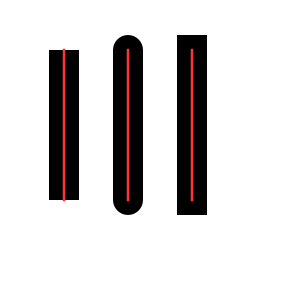
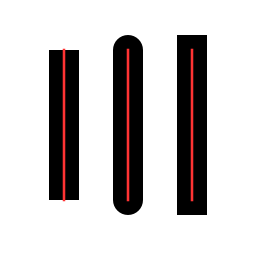
[screenshots]update screenshots

diff --git a/main.c b/main.c
@@ -79,7 +79,7 @@ static void cg_surface_write_to_png(struct cg_surface_t * surface, const char * 
 
 static void test_arc(const char * filename)
 {
-	struct cg_surface_t * surface = cg_surface_create(300, 300);
+	struct cg_surface_t * surface = cg_surface_create(256, 256);
 	struct cg_ctx_t * ctx = cg_create(surface);
 
 	double xc = 128.0;
@@ -111,7 +111,7 @@ static void test_arc(const char * filename)
 
 static void test_arc_negative(const char * filename)
 {
-	struct cg_surface_t * surface = cg_surface_create(300, 300);
+	struct cg_surface_t * surface = cg_surface_create(256, 256);
 	struct cg_ctx_t * ctx = cg_create(surface);
 
 	double xc = 128.0;
@@ -143,7 +143,7 @@ static void test_arc_negative(const char * filename)
 
 static void test_clip(const char * filename)
 {
-	struct cg_surface_t * surface = cg_surface_create(300, 300);
+	struct cg_surface_t * surface = cg_surface_create(256, 256);
 	struct cg_ctx_t * ctx = cg_create(surface);
 
 	cg_arc(ctx, 128.0, 128.0, 76.8, 0, 2 * M_PI);
@@ -167,7 +167,7 @@ static void test_clip(const char * filename)
 
 static void test_curve_rectangle(const char * filename)
 {
-	struct cg_surface_t * surface = cg_surface_create(300, 300);
+	struct cg_surface_t * surface = cg_surface_create(256, 256);
 	struct cg_ctx_t * ctx = cg_create(surface);
 
 	double x0 = 25.6,
@@ -240,7 +240,7 @@ static void test_curve_rectangle(const char * filename)
 
 static void test_curve_to(const char * filename)
 {
-	struct cg_surface_t * surface = cg_surface_create(300, 300);
+	struct cg_surface_t * surface = cg_surface_create(256, 256);
 	struct cg_ctx_t * ctx = cg_create(surface);
 
 	double x = 25.6, y = 128.0;
@@ -267,7 +267,7 @@ static void test_curve_to(const char * filename)
 
 static void test_dash(const char * filename)
 {
-	struct cg_surface_t * surface = cg_surface_create(300, 300);
+	struct cg_surface_t * surface = cg_surface_create(256, 256);
 	struct cg_ctx_t * ctx = cg_create(surface);
 
 	double dashes[] = { 50.0, 10.0, 10.0, 10.0 };
@@ -288,7 +288,7 @@ static void test_dash(const char * filename)
 
 static void test_fill_and_stroke(const char * filename)
 {
-	struct cg_surface_t * surface = cg_surface_create(300, 300);
+	struct cg_surface_t * surface = cg_surface_create(256, 256);
 	struct cg_ctx_t * ctx = cg_create(surface);
 
 	cg_move_to(ctx, 128.0, 25.6);
@@ -316,7 +316,7 @@ static void test_fill_and_stroke(const char * filename)
 
 static void test_fill_style(const char * filename)
 {
-	struct cg_surface_t * surface = cg_surface_create(300, 300);
+	struct cg_surface_t * surface = cg_surface_create(256, 256);
 	struct cg_ctx_t * ctx = cg_create(surface);
 
 	cg_set_line_width(ctx, 6);
@@ -353,7 +353,7 @@ static void test_fill_style(const char * filename)
 
 static void test_gradient(const char * filename)
 {
-	struct cg_surface_t * surface = cg_surface_create(300, 300);
+	struct cg_surface_t * surface = cg_surface_create(256, 256);
 	struct cg_ctx_t * ctx = cg_create(surface);
 
 	cg_arc(ctx, 128.0, 128.0, 76.8, 0, 2 * M_PI);
@@ -384,7 +384,7 @@ static void test_gradient(const char * filename)
 
 static void test_multi_segment_caps(const char * filename)
 {
-	struct cg_surface_t * surface = cg_surface_create(300, 300);
+	struct cg_surface_t * surface = cg_surface_create(256, 256);
 	struct cg_ctx_t * ctx = cg_create(surface);
 
 	cg_move_to(ctx, 50.0, 75.0);
@@ -407,7 +407,7 @@ static void test_multi_segment_caps(const char * filename)
 
 static void test_rounded_rectangle(const char * filename)
 {
-	struct cg_surface_t * surface = cg_surface_create(300, 300);
+	struct cg_surface_t * surface = cg_surface_create(256, 256);
 	struct cg_ctx_t * ctx = cg_create(surface);
 
 	double x = 25.6,
@@ -439,7 +439,7 @@ static void test_rounded_rectangle(const char * filename)
 
 static void test_set_line_cap(const char * filename)
 {
-	struct cg_surface_t * surface = cg_surface_create(300, 300);
+	struct cg_surface_t * surface = cg_surface_create(256, 256);
 	struct cg_ctx_t * ctx = cg_create(surface);
 
 	cg_set_line_width(ctx, 30.0);
@@ -473,7 +473,7 @@ static void test_set_line_cap(const char * filename)
 
 static void test_set_line_join(const char * filename)
 {
-	struct cg_surface_t * surface = cg_surface_create(300, 300);
+	struct cg_surface_t * surface = cg_surface_create(256, 256);
 	struct cg_ctx_t * ctx = cg_create(surface);
 
 	cg_set_line_width(ctx, 40.96);
